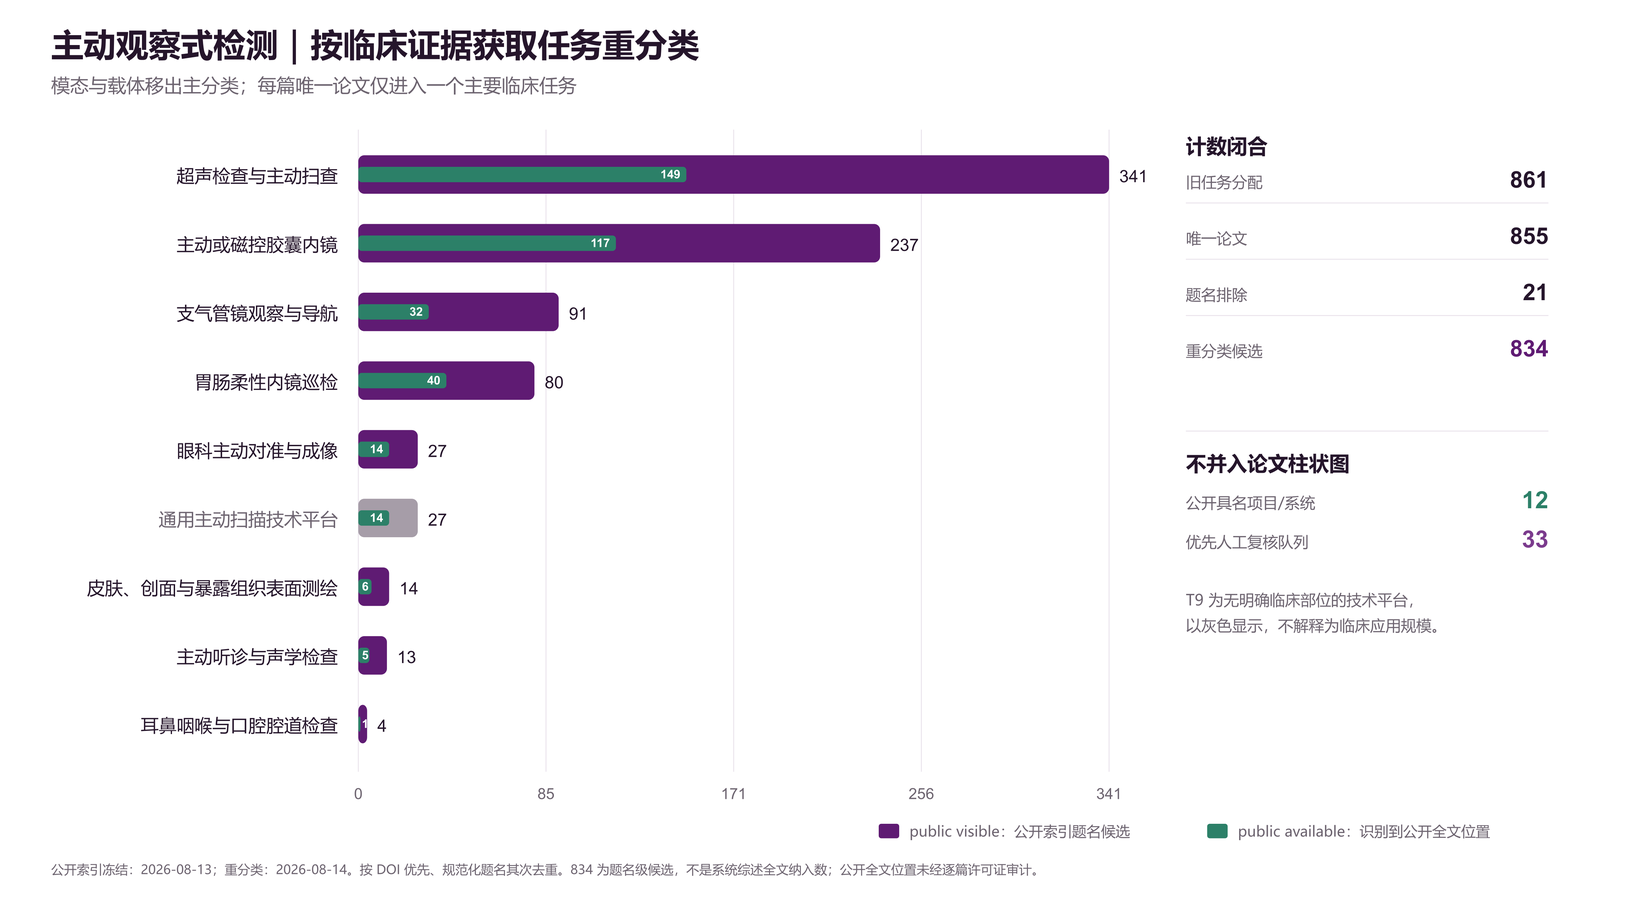
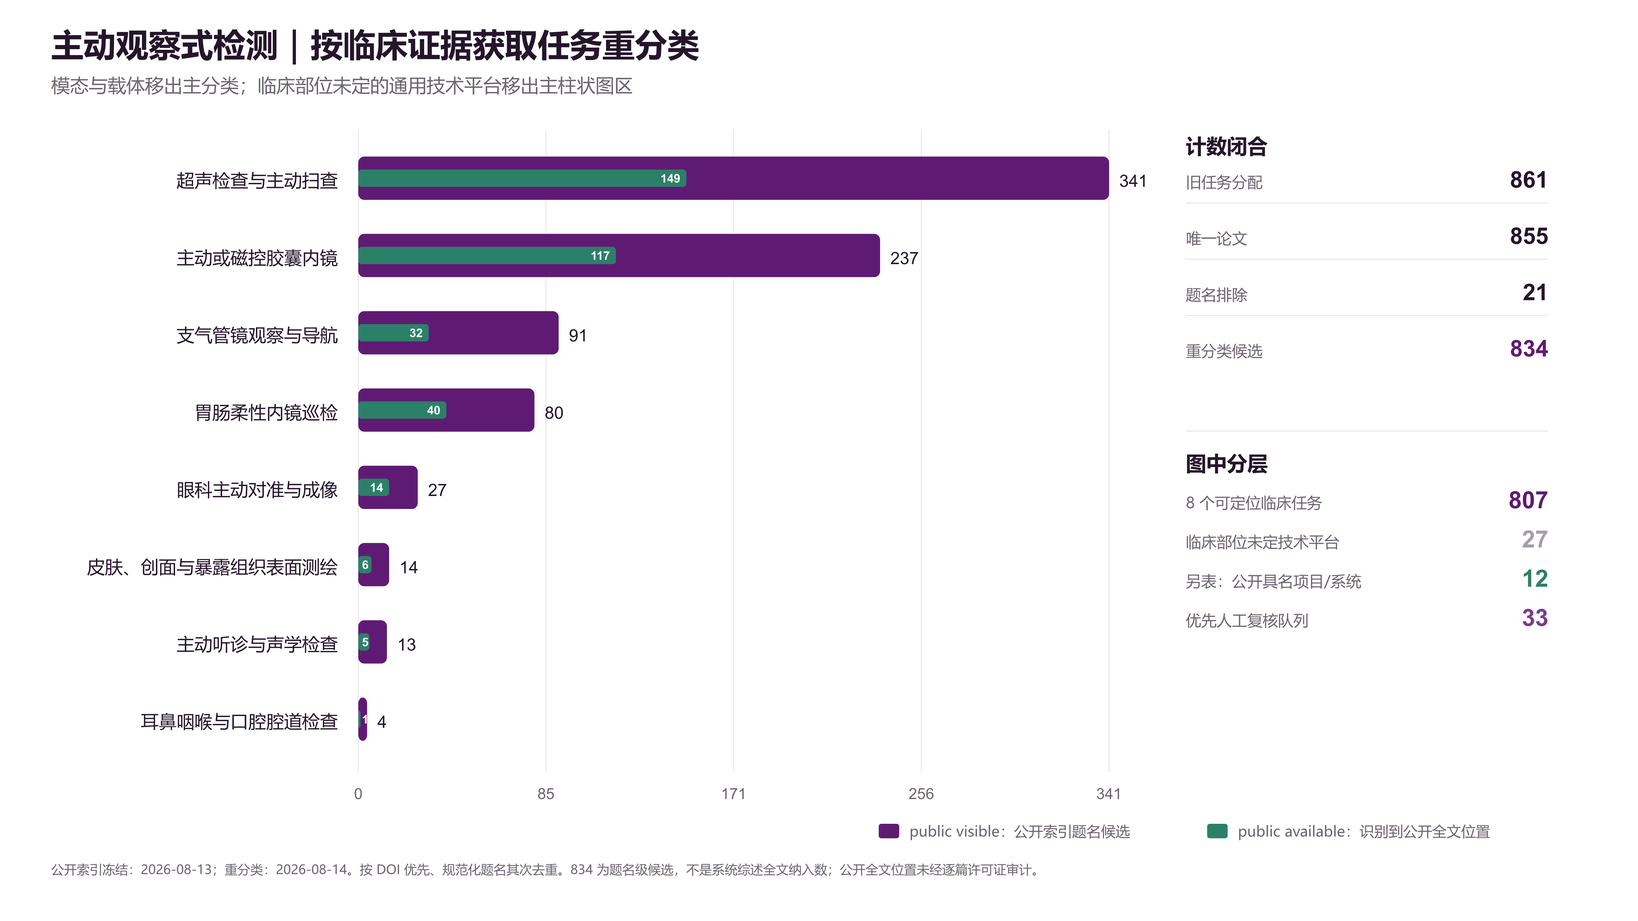
Add bilingual public-evidence figures

diff --git a/scripts/make_english_public_figures.py b/scripts/make_english_public_figures.py
@@ -1,0 +1,212 @@
+"""Generate English counterparts for every current public-evidence presentation chart.
+
+The English SVGs use the same frozen CSV/JSON inputs and counting fields as their
+Chinese counterparts.  They are presentation translations, not independent
+analyses.  PNG rendering is deliberately handled by ``rasterize_svg.mjs`` so the
+editable SVG remains the canonical figure.
+"""
+from __future__ import annotations
+
+import csv
+import html
+import json
+import argparse
+from pathlib import Path
+
+
+ROOT = Path(__file__).resolve().parents[1]
+parser = argparse.ArgumentParser(description=__doc__)
+parser.add_argument("--data-dir", type=Path, default=ROOT / "data" / "presentation")
+parser.add_argument("--output-dir", type=Path, default=ROOT / "figures" / "public_evidence")
+cli = parser.parse_args()
+DATA = cli.data_dir.resolve()
+OUT = cli.output_dir.resolve()
+OUT.mkdir(parents=True, exist_ok=True)
+
+C = {
+    "purple": "#5F1B73", "green": "#2C8068", "orange": "#D9782D",
+    "text": "#25152B", "muted": "#6D6470", "grid": "#E8E1EA",
+    "gray": "#A69DA8", "white": "#FFFFFF",
+}
+FONT = "Arial, Helvetica, sans-serif"
+
+
+def read_csv(name: str) -> list[dict[str, str]]:
+    path = DATA / name
+    if not path.exists() and name == "public_evidence_maturity_matrix.csv":
+        path = DATA / "证据成熟度矩阵.csv"
+    if not path.exists():
+        local_evidence = DATA.parent / "04_文献与证据" / name
+        if local_evidence.exists():
+            path = local_evidence
+    with path.open(encoding="utf-8-sig", newline="") as handle:
+        return list(csv.DictReader(handle))
+
+
+def esc(value: object) -> str:
+    return html.escape(str(value), quote=True)
+
+
+def save(name: str, width: int, height: int, body: list[str]) -> None:
+    svg = (
+        f'<svg xmlns="http://www.w3.org/2000/svg" width="{width}" height="{height}" '
+        f'viewBox="0 0 {width} {height}">' + "".join(body) + "</svg>"
+    )
+    (OUT / name).write_text(svg, encoding="utf-8")
+
+
+def landscape(rows: list[dict[str, object]], name: str, title: str,
+              visible_key: str, available_key: str, note: str) -> None:
+    width, height, left, right, top, bottom = 1600, 820, 510, 105, 125, 120
+    plot_w = width - left - right
+    row_h = (height - top - bottom) / len(rows)
+    maximum = max(int(r[visible_key]) for r in rows)
+    body = [f'<rect width="{width}" height="{height}" fill="white"/>',
+            f'<text x="60" y="66" font-family="{FONT}" font-size="34" font-weight="700" fill="{C["text"]}">{esc(title)}</text>']
+    for tick in range(5):
+        x = left + plot_w * tick / 4
+        body += [f'<line x1="{x}" y1="{top-20}" x2="{x}" y2="{height-bottom+10}" stroke="{C["grid"]}"/>',
+                 f'<text x="{x}" y="{height-bottom+45}" text-anchor="middle" font-family="{FONT}" font-size="19" fill="{C["muted"]}">{round(maximum*tick/4)}</text>']
+    for i, row in enumerate(rows):
+        y, bar_h = top + i * row_h + row_h * .18, row_h * .52
+        visible, available = int(row[visible_key]), int(row[available_key])
+        w_visible, w_available = plot_w * visible / maximum, plot_w * available / maximum
+        body += [f'<text x="{left-24}" y="{y+bar_h*.72}" text-anchor="end" font-family="{FONT}" font-size="21" fill="{C["text"]}">{esc(row["label"])}</text>',
+                 f'<rect x="{left}" y="{y}" width="{w_visible}" height="{bar_h}" rx="7" fill="{C["purple"]}"/>',
+                 f'<rect x="{left}" y="{y+bar_h*.31}" width="{w_available}" height="{bar_h*.38}" rx="4" fill="{C["green"]}"/>',
+                 f'<text x="{left+w_visible+14}" y="{y+bar_h*.72}" font-family="{FONT}" font-size="23" fill="{C["text"]}">{visible}</text>']
+        if available:
+            body.append(f'<text x="{left+w_available-8}" y="{y+bar_h*.59}" text-anchor="end" font-family="{FONT}" font-size="16" font-weight="700" fill="white">{available}</text>')
+    body += [f'<rect x="720" y="{height-79}" width="24" height="17" rx="3" fill="{C["purple"]}"/><text x="756" y="{height-64}" font-family="{FONT}" font-size="16" fill="{C["muted"]}">public visible: title-screened candidates</text>',
+             f'<rect x="1110" y="{height-79}" width="24" height="17" rx="3" fill="{C["green"]}"/><text x="1146" y="{height-64}" font-family="{FONT}" font-size="16" fill="{C["muted"]}">public available: public full-text location identified</text>',
+             f'<text x="60" y="{height-28}" font-family="{FONT}" font-size="15" fill="{C["muted"]}">{esc(note)}</text>']
+    save(name, width, height, body)
+
+
+def maturity(rows: list[dict[str, object]], name: str, title: str) -> None:
+    width, height, left, right, top, bottom = 1600, 650, 480, 70, 90, 115
+    plot_w, row_h = width-left-right, (height-top-bottom)/len(rows)
+    levels = ["Not located", "Prototype", "Phantom / in vitro", "Animal / ex vivo", "Human", "Multicentre / controlled", "Outcome / deployment"]
+    body = [f'<rect width="{width}" height="{height}" fill="white"/>',
+            f'<text x="45" y="52" font-family="{FONT}" font-size="31" font-weight="700" fill="{C["text"]}">{esc(title)}</text>']
+    for i, label in enumerate(levels):
+        x = left + plot_w*i/6
+        body += [f'<line x1="{x}" y1="{top-12}" x2="{x}" y2="{height-bottom+15}" stroke="{C["grid"]}" stroke-dasharray="5 7"/>',
+                 f'<text x="{x}" y="{height-bottom+48}" text-anchor="middle" font-family="{FONT}" font-size="13" fill="{C["muted"]}">{esc(label)}</text>']
+    for i, row in enumerate(rows):
+        level = int(row["maturity_level"]); y = top+i*row_h+row_h/2; x = left+plot_w*level/6
+        color = C["orange"] if level <= 3 else C["green"]
+        body += [f'<text x="{left-20}" y="{y+7}" text-anchor="end" font-family="{FONT}" font-size="21" fill="{C["text"]}">{esc(row["label"])}</text>',
+                 f'<line x1="{left}" y1="{y}" x2="{x}" y2="{y}" stroke="{C["grid"]}" stroke-width="8" stroke-linecap="round"/>',
+                 f'<circle cx="{x}" cy="{y}" r="16" fill="{color}" stroke="white" stroke-width="3"/>']
+    body.append(f'<text x="45" y="{height-25}" font-family="{FONT}" font-size="15" fill="{C["muted"]}">Highest evidence level located in publicly verifiable primary studies; it does not imply full-loop autonomy and is not a publication-volume metric.</text>')
+    save(name, width, height, body)
+
+
+def old_public_figures() -> None:
+    matrix = {r["task_code"]: r for r in read_csv("public_evidence_maturity_matrix.csv")}
+    active = [("A1", "Robotic ultrasound"), ("A3", "Active / magnetically controlled capsule"),
+              ("A2", "Robotic GI endoscopic inspection"), ("A4", "Robotic bronchoscopy navigation"),
+              ("A5", "Robotic OCT"), ("A6", "Robotic auscultation")]
+    response = [("R1", "Robotic palpation"), ("R2", "Elasticity / stiffness mapping"),
+                ("R6", "Closed-loop TMS response mapping"), ("R3", "Joint laxity / provocation"),
+                ("R4", "Tone / spasticity assessment"), ("R5", "Percussion / reflex examination")]
+    sample = [("S1", "Percutaneous / core-needle biopsy"), ("S4", "Venipuncture / blood collection"),
+              ("S5", "Swab / specimen collection"), ("S2", "Endoscopic / bronchoscopic biopsy"),
+              ("S3", "Capsule tissue / fluid sampling")]
+    def rows(spec):
+        return [{**matrix[code], "label": label} for code, label in spec]
+    note = "Deduplicated papers in frozen public-index snapshots (Europe PMC, OpenAlex, Crossref and arXiv); title-rule screening; not systematic-review inclusions."
+    landscape(rows(active), "p5_active_public_landscape_en.svg", "Active observational sensing | Public-source research landscape", "public_index_title_screened_candidates", "oa_or_repository_location_identified_automatically", note)
+    landscape(rows(response), "p9_response_public_landscape_en.svg", "Response-based interactive diagnosis | Public-source title-screened candidates", "public_index_title_screened_candidates", "oa_or_repository_location_identified_automatically", note)
+    landscape(rows(sample), "p13_sample_public_landscape_en.svg", "Sample-based interactive diagnosis | Public-source title-screened candidates", "public_index_title_screened_candidates", "oa_or_repository_location_identified_automatically", note)
+    maturity(rows(response), "p9_response_maturity_en.svg", "Highest publicly verifiable evidence maturity")
+    maturity(rows(sample), "p13_sample_maturity_en.svg", "Highest publicly verifiable evidence maturity")
+
+
+def extended_p5() -> None:
+    source = read_csv("p5_public_visible_available_counts_2026-08-13.csv")
+    labels = {
+        "A1":"Robotic ultrasound", "A2":"Robotic GI endoscopic inspection", "A3":"Active / magnetically controlled capsule endoscopy",
+        "A4":"Robotic bronchoscopy observation / navigation", "A5":"Robotic OCT", "A6":"Robotic auscultation",
+        "A7":"Robotic fundus / slit-lamp imaging", "A8":"Robotic otoscopy", "A9":"Robotic skin / wound surface scanning",
+        "A10":"Robotic spectroscopic / optical scanning", "A11":"Robotic laryngoscopy / oral examination",
+    }
+    rows = [{**r, "label": labels[r["task_code"]]} for r in sorted(source, key=lambda x:int(x["public_visible_precision_title_candidates"]), reverse=True)]
+    landscape(rows, "p5_public_visible_available_extended_en.svg", "Active observational sensing | Public-visible and public-full-text candidate landscape", "public_visible_precision_title_candidates", "public_available_location_identified", "Public indexes: OpenAlex and Europe PMC, supplemented by Crossref/arXiv; 2000–13 Aug 2026. Deduplicated by DOI/title. Candidate counts are not full-text systematic-review inclusions; availability is not a licence audit.")
+
+
+def reclassified_p5() -> None:
+    counts = read_csv("p5_reclassified_task_counts_2026-08-14.csv")
+    qc = json.loads((DATA / "p5_reclassification_qc_2026-08-14.json").read_text(encoding="utf-8"))
+    projects = read_csv("p5_reclassified_public_projects_2026-08-14.csv")
+    rows = sorted((r for r in counts if r["primary_task_code"] != "T9"), key=lambda x:int(x["public_visible_unique_title_candidates"]), reverse=True)
+    generic = next(r for r in counts if r["primary_task_code"] == "T9")
+    clinical_total = sum(int(r["public_visible_unique_title_candidates"]) for r in rows)
+    width, height, left, chart_right, top, bottom = 1920, 1080, 520, 1320, 170, 185
+    chart_w = chart_right-left; row_h=(height-top-bottom)/len(rows); maximum=max(int(r["public_visible_unique_title_candidates"]) for r in rows)
+    body=[f'<rect width="{width}" height="{height}" fill="white"/>',
+          f'<text x="60" y="66" font-family="{FONT}" font-size="38" font-weight="700" fill="{C["text"]}">Active observational sensing | Reclassified by clinical evidence-acquisition task</text>',
+          f'<text x="60" y="108" font-family="{FONT}" font-size="22" fill="{C["muted"]}">Modality and embodiment are secondary tags; generic platforms without a clinical site are moved out of the main bars</text>']
+    for i in range(5):
+        x=left+chart_w*i/4
+        body += [f'<line x1="{x}" y1="{top-18}" x2="{x}" y2="{height-bottom+10}" stroke="{C["grid"]}"/>',
+                 f'<text x="{x}" y="{height-bottom+42}" text-anchor="middle" font-family="{FONT}" font-size="18" fill="{C["muted"]}">{round(maximum*i/4)}</text>']
+    for i,r in enumerate(rows):
+        y=top+i*row_h+row_h*.15; bar_h=row_h*.56; visible=int(r["public_visible_unique_title_candidates"]); available=int(r["public_available_location_identified"])
+        wv=chart_w*visible/maximum; wa=chart_w*available/maximum
+        body += [f'<text x="{left-24}" y="{y+bar_h*.70}" text-anchor="end" font-family="{FONT}" font-size="19" fill="{C["text"]}">{esc(r["primary_task_en"])}</text>',
+                 f'<rect x="{left}" y="{y}" width="{wv}" height="{bar_h}" rx="7" fill="{C["purple"]}"/>',
+                 f'<rect x="{left}" y="{y+bar_h*.30}" width="{wa}" height="{bar_h*.40}" rx="4" fill="{C["green"]}"/>',
+                 f'<text x="{left+wv+12}" y="{y+bar_h*.70}" font-family="{FONT}" font-size="20" fill="{C["text"]}">{visible}</text>']
+        if available:
+            body.append(f'<text x="{left+max(wa-7,12)}" y="{y+bar_h*.60}" text-anchor="end" font-family="{FONT}" font-size="14" font-weight="700" fill="white">{available}</text>')
+    x0=1400
+    body += [f'<text x="{x0}" y="180" font-family="{FONT}" font-size="24" font-weight="700" fill="{C["text"]}">Count reconciliation</text>']
+    flow=[("Prior task assignments",qc["task_assignment_rows"]),("Unique papers",qc["unique_works"]),("Title-level exclusions",qc["excluded_by_title_scope_rules"]),("Reclassified candidates",qc["included_title_candidates"])]
+    for i,(label,value) in enumerate(flow):
+        y=220+i*66
+        body += [f'<text x="{x0}" y="{y}" font-family="{FONT}" font-size="18" fill="{C["muted"]}">{label}</text>',
+                 f'<text x="1815" y="{y}" text-anchor="end" font-family="{FONT}" font-size="27" font-weight="700" fill="{C["purple"] if i==3 else C["text"]}">{value}</text>']
+        if i<3: body.append(f'<line x1="{x0}" y1="{y+18}" x2="1815" y2="{y+18}" stroke="{C["grid"]}"/>')
+    body += [f'<line x1="{x0}" y1="505" x2="1815" y2="505" stroke="{C["grid"]}"/>',
+             f'<text x="{x0}" y="552" font-family="{FONT}" font-size="22" font-weight="700" fill="{C["text"]}">Figure stratification</text>',
+             f'<text x="{x0}" y="596" font-family="{FONT}" font-size="18" fill="{C["muted"]}">Eight site-resolved clinical tasks</text><text x="1815" y="596" text-anchor="end" font-family="{FONT}" font-size="28" font-weight="700" fill="{C["purple"]}">{clinical_total}</text>',
+             f'<text x="{x0}" y="642" font-family="{FONT}" font-size="18" fill="{C["muted"]}">Generic platforms; clinical site unresolved</text><text x="1815" y="642" text-anchor="end" font-family="{FONT}" font-size="28" font-weight="700" fill="{C["gray"]}">{generic["public_visible_unique_title_candidates"]}</text>',
+             f'<text x="{x0}" y="688" font-family="{FONT}" font-size="18" fill="{C["muted"]}">Separate ledger: named projects / systems</text><text x="1815" y="688" text-anchor="end" font-family="{FONT}" font-size="28" font-weight="700" fill="{C["green"]}">{len(projects)}</text>',
+             f'<text x="{x0}" y="734" font-family="{FONT}" font-size="18" fill="{C["muted"]}">Priority manual-review queue</text><text x="1815" y="734" text-anchor="end" font-family="{FONT}" font-size="28" font-weight="700" fill="#7B3B8D">{qc["priority_manual_review"]}</text>',
+             f'<rect x="1000" y="966" width="24" height="17" rx="3" fill="{C["purple"]}"/><text x="1036" y="981" font-family="{FONT}" font-size="16" fill="{C["muted"]}">public visible: public-index title candidates</text>',
+             f'<rect x="1405" y="966" width="24" height="17" rx="3" fill="{C["green"]}"/><text x="1441" y="981" font-family="{FONT}" font-size="16" fill="{C["muted"]}">public available: public full-text location identified</text>',
+             f'<text x="60" y="1025" font-family="{FONT}" font-size="14" fill="{C["muted"]}">Public-index freeze: 13 Aug 2026; reclassification: 14 Aug 2026. DOI-first/title-second deduplication. The 834 records are title-level candidates, not systematic-review inclusions; locations were not individually licence-audited.</text>']
+    save("p5_reclassified_clinical_tasks_en.svg",width,height,body)
+
+    matrix_rows=read_csv("p5_task_modality_matrix_2026-08-14.csv")
+    lookup={(r["primary_task_code"],r["modality_tag"]):r for r in matrix_rows}
+    groups=[("Ultrasound",["ultrasound"]),("OCT",["OCT"]),("Endoscopic / cavity imaging*",["endoscopic_imaging_unspecified","capsule_endoscopic_imaging_unspecified","bronchoscopic_imaging_unspecified","cavity_visual_imaging_unspecified"]),("Confocal / endomicroscopy",["confocal_endomicroscopy"]),("Photoacoustic",["photoacoustic"]),("Raman / DRS",["Raman_DRS_spectroscopy"]),("Other optical / RGB",["white_light_RGB_video","other_optical","ophthalmic_imaging_unspecified","surface_imaging_unspecified"]),("Physiological sound",["acoustic_physiological_sound"])]
+    width,height,left,top,cell_w,cell_h=1920,1080,540,220,160,74
+    body=[f'<rect width="{width}" height="{height}" fill="white"/>',f'<text x="60" y="68" font-family="{FONT}" font-size="38" font-weight="700" fill="{C["text"]}">Active observational sensing | Clinical task × sensing modality</text>',f'<text x="60" y="110" font-family="{FONT}" font-size="22" fill="{C["muted"]}">Modality is multi-label; cells show public visible / public available and must not be summed across columns</text>']
+    for j,(label,_) in enumerate(groups):
+        x=left+j*cell_w+cell_w/2; words=label.split(" / ")
+        body.append(f'<text x="{x}" y="168" text-anchor="middle" font-family="{FONT}" font-size="15" font-weight="700" fill="{C["text"]}">{esc(words[0])}</text>')
+        if len(words)>1: body.append(f'<text x="{x}" y="190" text-anchor="middle" font-family="{FONT}" font-size="14" font-weight="700" fill="{C["text"]}">{esc("/ ".join(words[1:]))}</text>')
+    for i,code in enumerate([f"T{x}" for x in range(1,10)]):
+        task=next(r for r in counts if r["primary_task_code"]==code); y=top+i*cell_h
+        body.append(f'<text x="{left-25}" y="{y+45}" text-anchor="end" font-family="{FONT}" font-size="17" fill="{C["muted"] if code=="T9" else C["text"]}">{esc(task["primary_task_en"])}</text>')
+        for j,(_,tags) in enumerate(groups):
+            visible=available=0
+            for tag in tags:
+                r=lookup.get((code,tag))
+                if r: visible+=int(r["public_visible_unique_title_candidates"]); available+=int(r["public_available_location_identified"])
+            x=left+j*cell_w; alpha=min(.10+.55*(__import__("math").log10(visible+1))/2.6,.65) if visible else 0
+            body.append(f'<rect x="{x+5}" y="{y+5}" width="{cell_w-10}" height="{cell_h-10}" rx="7" fill="{C["purple"]}" fill-opacity="{alpha:.3f}" stroke="{C["grid"]}"/>')
+            if visible: body.append(f'<text x="{x+cell_w/2}" y="{y+35}" text-anchor="middle" font-family="{FONT}" font-size="20" font-weight="700" fill="{C["text"]}">{visible}<tspan fill="{C["muted"]}" font-size="16"> / </tspan><tspan fill="{C["green"]}" font-size="18">{available}</tspan></text>')
+            else: body.append(f'<text x="{x+cell_w/2}" y="{y+39}" text-anchor="middle" font-family="{FONT}" font-size="18" fill="#C9C2CB">–</text>')
+    body += [f'<text x="60" y="938" font-family="{FONT}" font-size="16" fill="{C["muted"]}">* “Endoscopic / cavity imaging” means that the title did not specify OCT, confocal, photoacoustic or another modality; it is not an inferred modality for all endoscopy papers.</text>',f'<text x="60" y="978" font-family="{FONT}" font-size="16" fill="{C["muted"]}">OCT, confocal, photoacoustic and spectroscopic records are assigned to clinical tasks; T9 retains only generic platforms whose clinical site cannot be identified from the title.</text>',f'<text x="60" y="1025" font-family="{FONT}" font-size="14" fill="{C["muted"]}">Scope and sources match the main P5 chart. Modalities are title-explicit terms; “unspecified” tags are used when the title lacks a specific modality. Multi-label modality counts are not unique-paper totals.</text>']
+    save("p5_task_modality_matrix_en.svg",width,height,body)
+
+
+if __name__ == "__main__":
+    old_public_figures()
+    extended_p5()
+    reclassified_p5()
+    print("Generated English SVG counterparts in figures/public_evidence")

diff --git a/scripts/make_p5_public_visible_available_figure.py b/scripts/make_p5_public_visible_available_figure.py
@@ -2,10 +2,10 @@
 import argparse,csv,html
 from pathlib import Path
 
-DEFAULT_ROOT=Path(r"D:\Researching\清华\古月\Project\综述\支持图表\codex-参考")
+DEFAULT_ROOT=Path(__file__).resolve().parents[1]
 parser=argparse.ArgumentParser(description=__doc__)
-parser.add_argument('--data',type=Path,default=DEFAULT_ROOT/"02_当前主数据"/"P5_public_visible_available_counts_2026-08-13.csv")
-parser.add_argument('--output',type=Path,default=DEFAULT_ROOT/"03_PPT图表"/"P5_主动观察_public_visible与public_available_扩展版.svg")
+parser.add_argument('--data',type=Path,default=DEFAULT_ROOT/"data"/"presentation"/"p5_public_visible_available_counts_2026-08-13.csv")
+parser.add_argument('--output',type=Path,default=DEFAULT_ROOT/"figures"/"public_evidence"/"p5_public_visible_available_extended.svg")
 args=parser.parse_args(); DATA=args.data.resolve(); OUT=args.output.resolve(); OUT.parent.mkdir(parents=True,exist_ok=True)
 rows=list(csv.DictReader(open(DATA,encoding="utf-8-sig")))
 rows=sorted(rows,key=lambda x:int(x['public_visible_precision_title_candidates']),reverse=True)

diff --git a/scripts/validate_bilingual_figures.py b/scripts/validate_bilingual_figures.py
@@ -1,0 +1,24 @@
+"""Fail when a current Chinese presentation SVG/PNG lacks an English sibling."""
+from pathlib import Path
+import argparse
+import sys
+
+if hasattr(sys.stdout, "reconfigure"):
+    sys.stdout.reconfigure(encoding="utf-8", errors="backslashreplace")
+
+ROOT = Path(__file__).resolve().parents[1]
+parser = argparse.ArgumentParser(description=__doc__)
+parser.add_argument("--figure-dir", type=Path, default=ROOT / "figures" / "public_evidence")
+FIG = parser.parse_args().figure_dir.resolve()
+errors = []
+for suffix in (".svg", ".png"):
+    for source in sorted(FIG.glob(f"*{suffix}")):
+        if source.stem.endswith("_en"):
+            continue
+        sibling = source.with_name(f"{source.stem}_en{suffix}")
+        if not sibling.exists():
+            errors.append(f"Missing English counterpart: {sibling}")
+if errors:
+    print("\n".join(errors))
+    sys.exit(1)
+print("Bilingual figure validation passed: every current SVG/PNG has an _en counterpart.")

diff --git a/docs/P5_RECLASSIFIED_PUBLIC_LANDSCAPE_2026-08-14.md b/docs/P5_RECLASSIFIED_PUBLIC_LANDSCAPE_2026-08-14.md
@@ -46,8 +46,11 @@ in `data/presentation/p5_reclassification_excluded_records_2026-08-14.csv`.
 | Active auscultation and acoustic examination | 13 | 5 |
 | ENT and oral-cavity examination | 4 | 1 |
 
-T9 is shown in grey because its titles do not specify a clinical acquisition
-site. It is a technical corpus, not a clinical-application-size estimate.
+T9 is removed from the main clinical-task bars because its titles do not specify
+a clinical acquisition site. The figure reconciles 807 site-resolved clinical-task
+candidates plus 27 generic technical-platform candidates to the 834 title-level
+records. T9 remains in the task-by-modality matrix and audit tables, where it is
+shown in grey and must not be interpreted as a clinical-application volume.
 
 ## Classification rules
 
@@ -116,4 +119,3 @@ robotized slit-lamp imaging, two robotic auscultation systems, autonomous
 endomicroscopy and robotic capsule endomicroscopy. Source URLs and loop
 characterizations are preserved in
 `data/presentation/p5_reclassified_public_projects_2026-08-14.csv`.
-

diff --git a/README.md b/README.md
@@ -82,6 +82,7 @@ The Python screen is self-contained. The editable figure and workbook builders u
 - P5 reclassified audit workbook: [`outputs/p5_reclassification/p5_active_observation_reclassified_2026-08-14.xlsx`](outputs/p5_reclassification/p5_active_observation_reclassified_2026-08-14.xlsx)
 - Audit-ready workbook with task counts, maturity, verified studies and all screened records: [`outputs/public_landscape/public_available_presentation_evidence.xlsx`](outputs/public_landscape/public_available_presentation_evidence.xlsx)
 - Editable SVG and high-resolution PNG figures: [`figures/public_evidence/`](figures/public_evidence/)
+- Every current chart has a fully translated English sibling (`*_en.svg` and `*_en.png`); policy and validation: [`docs/BILINGUAL_FIGURE_POLICY.md`](docs/BILINGUAL_FIGURE_POLICY.md)
 - Template-following layout example for P9 and P13: [`presentations/医学检测具身智能_P9_P13公开证据排版示例.pptx`](presentations/医学检测具身智能_P9_P13公开证据排版示例.pptx)
 
 ## Working taxonomy

diff --git a/docs/BILINGUAL_FIGURE_POLICY.md b/docs/BILINGUAL_FIGURE_POLICY.md
@@ -1,0 +1,16 @@
+# Bilingual figure policy
+
+Every current audience-facing chart in `figures/public_evidence/` must have:
+
+- an editable Chinese SVG and a matching English SVG suffixed `_en`;
+- a high-resolution PNG preview for each SVG;
+- identical data inputs, counting fields, snapshot dates and visual encodings;
+- fully translated titles, labels, legends, footnotes and evidentiary caveats.
+
+The English version is a presentation translation, not an independent analysis.
+`scripts/validate_bilingual_figures.py` fails when either-language files are missing.
+Run `scripts/reproduce_bilingual_public_figures.ps1` after changing a chart or its data.
+
+Superseded charts retained for provenance remain explicitly documented as historical
+or retrieval-audit artifacts; bilingual availability does not make them the preferred
+figure for scientific interpretation.
